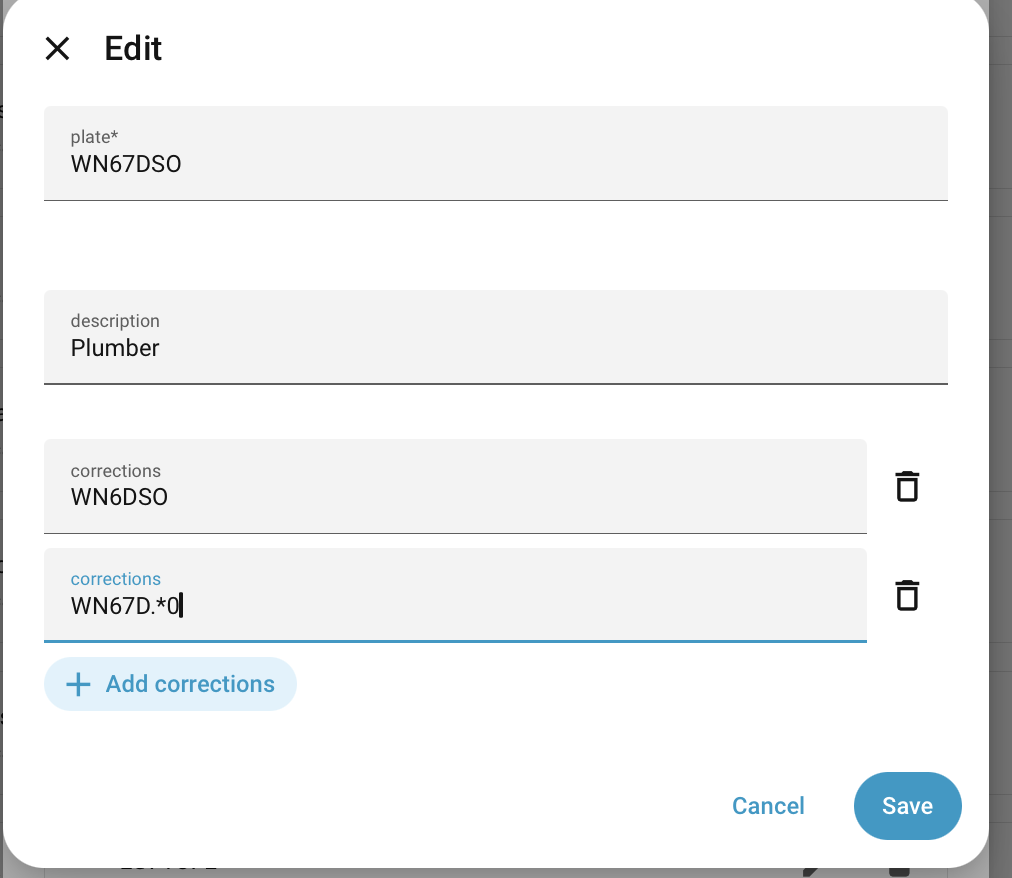
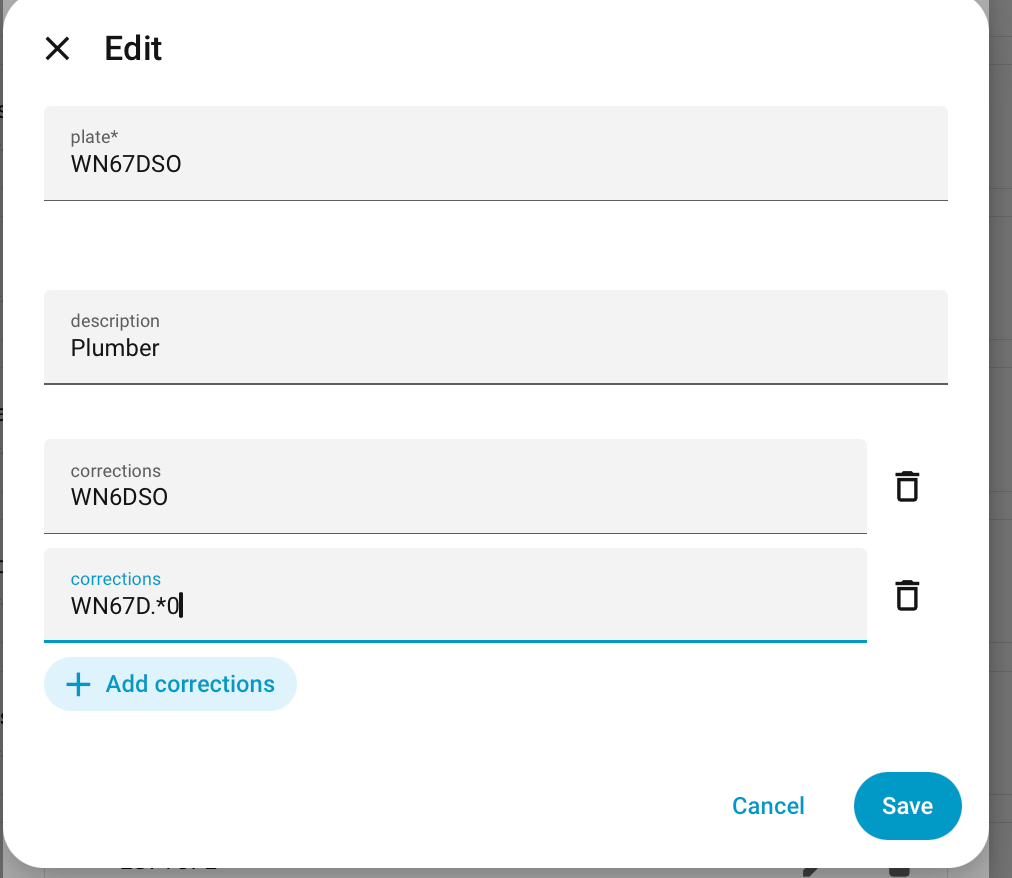
docs

diff --git a/CHANGELOG.md b/CHANGELOG.md
@@ -12,31 +12,50 @@ title: What's New
 
 Features from `anpr2mqtt` are now brought directly into this plugin, so classifying, tracking and looking up plates happens here, for any source of plates, and `anpr2mqtt` is no longer need for Frigate LPR enrichment (e.g. DVLA):
 
-- Vehicle categories, known or dangerous, by plates or regular expressions, with each plate's corrections, and *Ignore*
-- Pre-defined vehicle rules, once there's a category: a priority and scenarios for known (`medium`), unknown and unreadable (`high`) and dangerous (`critical`) vehicles. A misread plate matching a dangerous one can raise a false `critical`
-- Each plate's visit history, kept by an object tracker, plates its first kind, with each sighting's camera and source, as its DVLA details are, by a salted hash, never the plate itself, pruned daily ([RFC 0011](./developer/design/rfcs/rfc0011_object_tracker.md)): previous sightings, count by hour, new visits, the times of day it's usually seen, and whether it's a *Daily visitor* (5 days of 7, each of the last two weeks), *Weekly visitor* (each of the last two weeks) or *Occasional visitor* (every month back to its first sighting), or otherwise previously seen. *Track visits*, in *Vehicles*, switches it off
-- **DVLA lookup** for UK plates, cached, correcting a misread by the last plate confirmed on the same camera
+- **Vehicle Categories**, known or dangerous, by plates or regular expressions, with each plate's corrections, and *Ignore*
+- Pre-defined **vehicle rules**, once there's a category: a priority and scenarios for known (`medium`), unknown and unreadable (`high`) and dangerous (`critical`) vehicles. A misread plate matching a dangerous one can raise a false `critical`
+- Each plate's visit history, with each sighting's camera and source
+  - Stored with salted hash, never the plate itself. Tracker can be switched on or off in Settings
+  - Pruned daily with configurable maximum days
+  - Provides counts of previous sightings, count by hour, new visits, the times of day it's usually seen
+    - Further classified into:
+      - *Daily visitor* (5 days of 7, each of the last two weeks)
+      - *Weekly visitor* (each of the last two weeks)
+      - *Occasional visitor* (every month back to its first sighting), or otherwise previously seen.
+- **DVLA lookup** for UK plates
+  - Cached, correcting a misread by the last plate confirmed on the same camera
   - The DVLA's API key kept as a credential, in the entry's data, never shown again or in diagnostics
   - Each DVLA call logged at info, with the plate partly redacted, the status code and any error the DVLA gives
   - *Test the key*, looking up `A123TST`, which should be answered with JSON and 200 or 404
   - `classify_plate`'s lookup has the status, any error, and whether cached, with when it was retrieved, or `skipped`
 - Frigate's plates classified, looked up and said under the headline, with their sightings
 - anpr2mqtt's sightings classified here instead of by anpr2mqtt, with *Use anpr2mqtt's own classification* off, in each anpr2mqtt source's settings
-- `classify_plate`, `add_plate`, `remove_plate`, `list_vehicle_categories` and `reset_sightings` actions
-- Import from anpr2mqtt by uploading an archive of its `config` and `data` folders, in *Global Settings* or as an anpr2mqtt source is set up, showing what was found before importing, and what was added after ([#27](https://github.com/rhizomatics/camera_autonotify/issues/27))
-- A *Known vehicle* button on a notification of an unknown plate, with a description typed on the phone
-- **Image processing** integrations, such as OpenALPR, as a source of their own, each plate or face they find in their own camera's images notified, by Home Assistant's `found_plate` and `detect_face` events, found and set up by itself by its device class. See [Image Processing](./image_processing.md)
+- **New Actions**
+  - `classify_plate` - Apply all the same lookups and enrichments as carried out for notifications, so can be used in other automations, e.g. to look up DVLA data, or get sightings
+  - `add_plate` - Add a plate to vehicle categories, with optional corrections
+  - `remove_plate` - Remove plate from vehicle categories
+  - `list_vehicle_categories` - all of the vehicle categories in one call
+  - `reset_sightings` - clear the sightings data for one, or all objects
+- **New Mobile Notification Actions**
+  - A *Known vehicle* button on a notification of an unknown plate, with a description typed on the phone
+- **Image processing** integrations, such as *OpenALPR*, as a source of their own, each plate or face they find in their own camera's images notified, by Home Assistant's `found_plate` and `detect_face` events, found and set up by itself by its device class. See [Image Processing](./image_processing.md)
 - A *Last notification snapshot* camera entity, an option of any camera, for a dashboard
+- A `camera_autonotify_vehicle` event for each sighting, with OpenALPR's `plate`, `entity_id` and `confidence`, with *Fire vehicle events* on
+- For `anpr2mqtt` users
+  - Import anpr2mqtt dara by uploading an archive of its `config` and `data` folders, in *Global Settings* or as an anpr2mqtt source is set up, showing what was found before importing, and what was added after ([#27](https://github.com/rhizomatics/camera_autonotify/issues/27))
+  - Switch on or off the server-side classifications and lookups, so this plugin can override
+## 📝 Other changes
+- Implemented next phase of [RFC0003](./developer/design/rfcs/rfc0003_anpr2mqtt.md)
 - An anpr2mqtt source is always offered as discovered, and its setup asks about anpr2mqtt, not Frigate
 - A Frigate camera or zone's entry titled with *(Frigate)* after its name, so the entries list shows where each is from, as an anpr2mqtt source's already does. Notifications and entities still say only the name
-- A `camera_autonotify_vehicle` event for each sighting, with OpenALPR's `plate`, `entity_id` and `confidence`, with *Fire vehicle events* on
-- Implements next phase of [RFC0003](./developer/design/rfcs/rfc0003_anpr2mqtt.md)
 ## 🐞 Fixes
 - Spoken announcements, such as Alexa's, say only the headline, or with GenAI's summary or description after it, rather than reading out the facts under it, the speed and plate among them, like bullet points ([#26](https://github.com/rhizomatics/camera_autonotify/issues/26))
 - A delivery company's logo from a Frigate+ model is said as its brand, such as *DPD* or *Royal Mail*, rather than *Dpd*, unless *Object names* names it otherwise, and isn't said again under the headline when it's already the object in it
 - The facts under the headline are separated by a plain `-` rather than `·`
 - anpr2mqtt's spoken message only adds the plate where the title is the vehicle's description, so an unknown vehicle's plate isn't said twice
 - The buttons on a phone say what they do: *Keep clip*, *Mark reviewed*, *Submit to Frigate+* and *Export recording*, rather than *Keep*, *Seen*, *Frigate+* and *Export*
+## 🌐 Translations
+- All new functionality translated for Deutsch, English, Español, Français, हिन्दी, Italian, Português, Português (Brasil)
 ## 📚 Documentation
 - Draft RFCs for [0010 - Unifi Protect](./developer/design/rfcs/rfc0010_unifi_protect.md), [0009 - Image Pipelines](./developer/design/rfcs/rfc0009_pipelines.md), [0008 - Visits](./developer/design/rfcs/rfc0008_visits.md), [0007 - Rich Emails](./developer/design/rfcs/rfc0007_rich_email.md) and [0006 - Frigate Config Health Report](./developer/design/rfcs/rfc0006_config_health_report.md)
 
